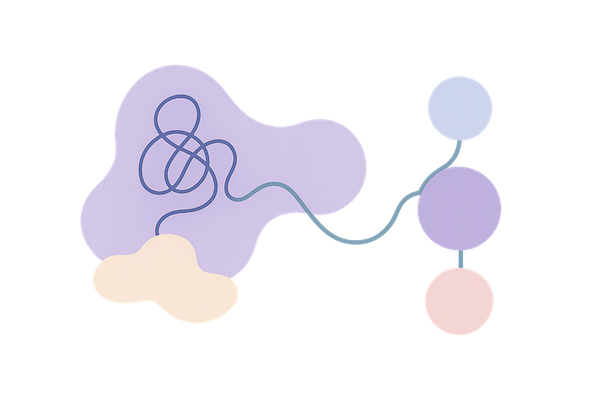
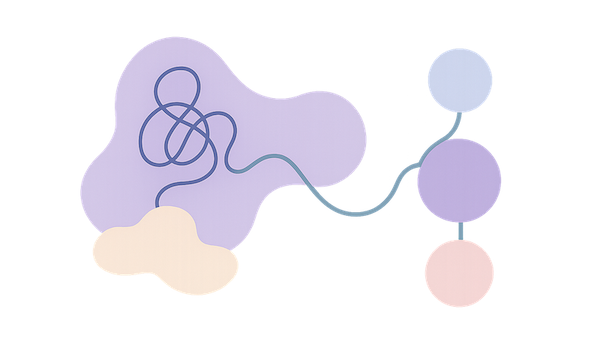
updates

diff --git a/about.html b/about.html
@@ -109,7 +109,7 @@
                 Improving quality through clarity, transparency simplicity, and experience. An approach to testing,
                 shaped by over 25 years of real-world project puzzles. I work with transparency and a supportive approach, applying pragmatism to every testing decision.
             </p>
-            <img src="images/about-hero1.png" alt="Clients list"
+            <img src="images/about-hero.png" alt="Clients list"
                 class="mx-auto mt-10 rounded-xl2 shadow-lg max-w-full h-auto overflow-hidden block" />
         </div>
     </section>
